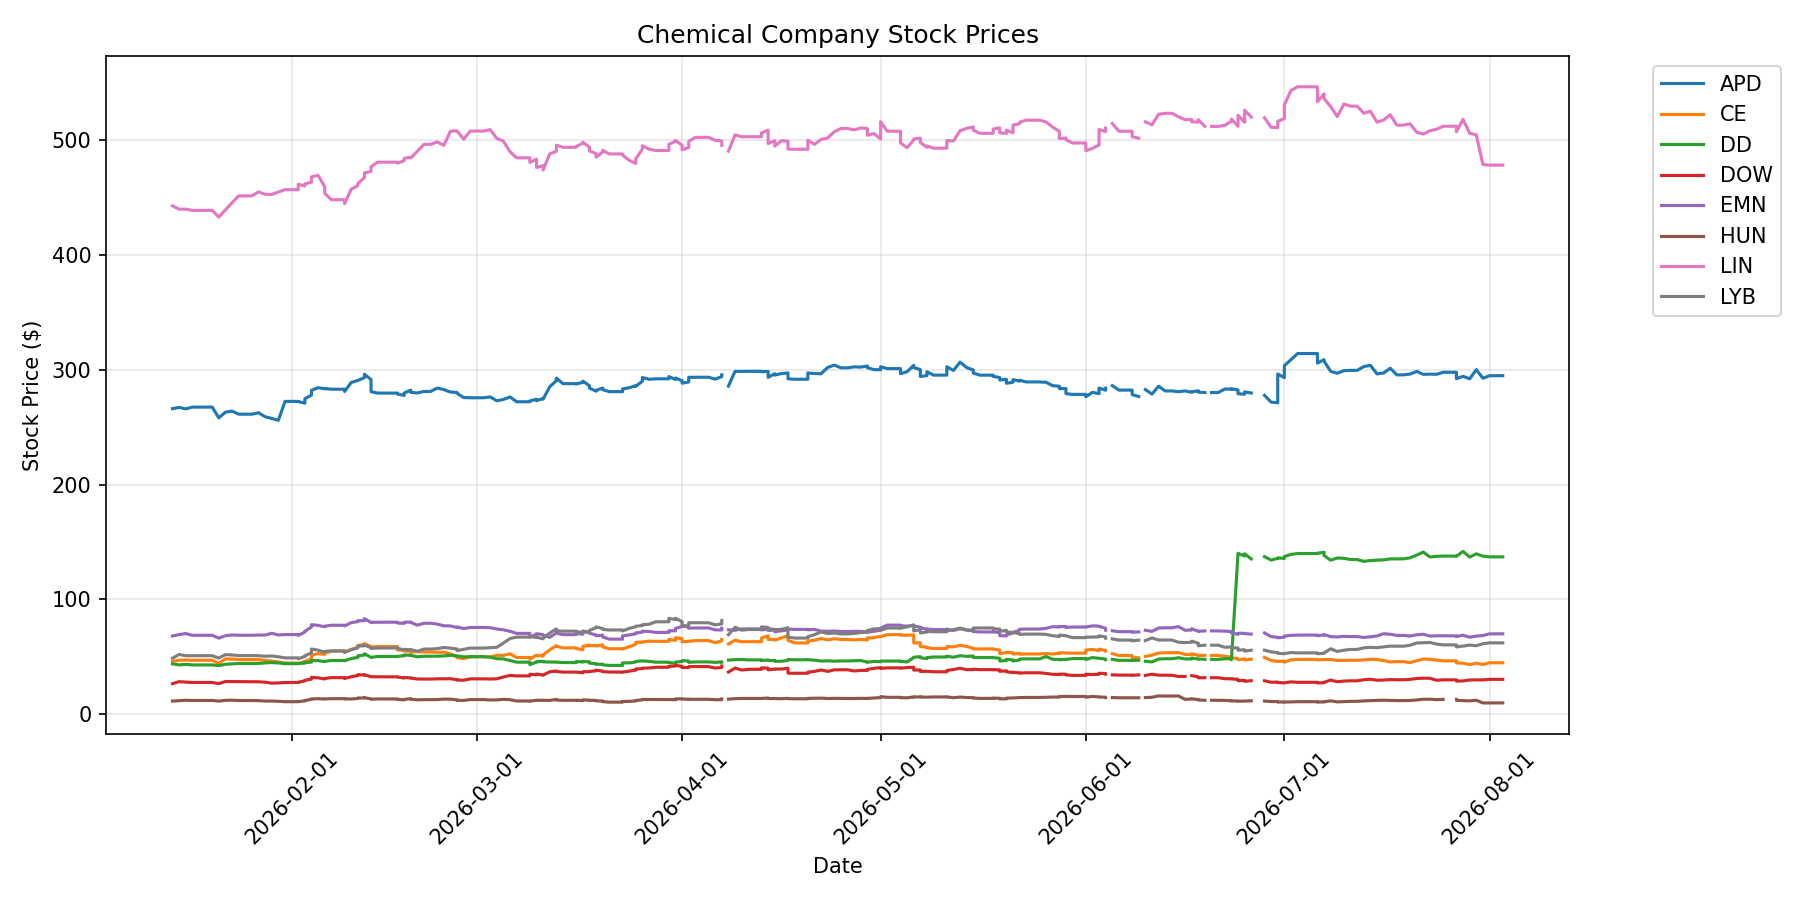
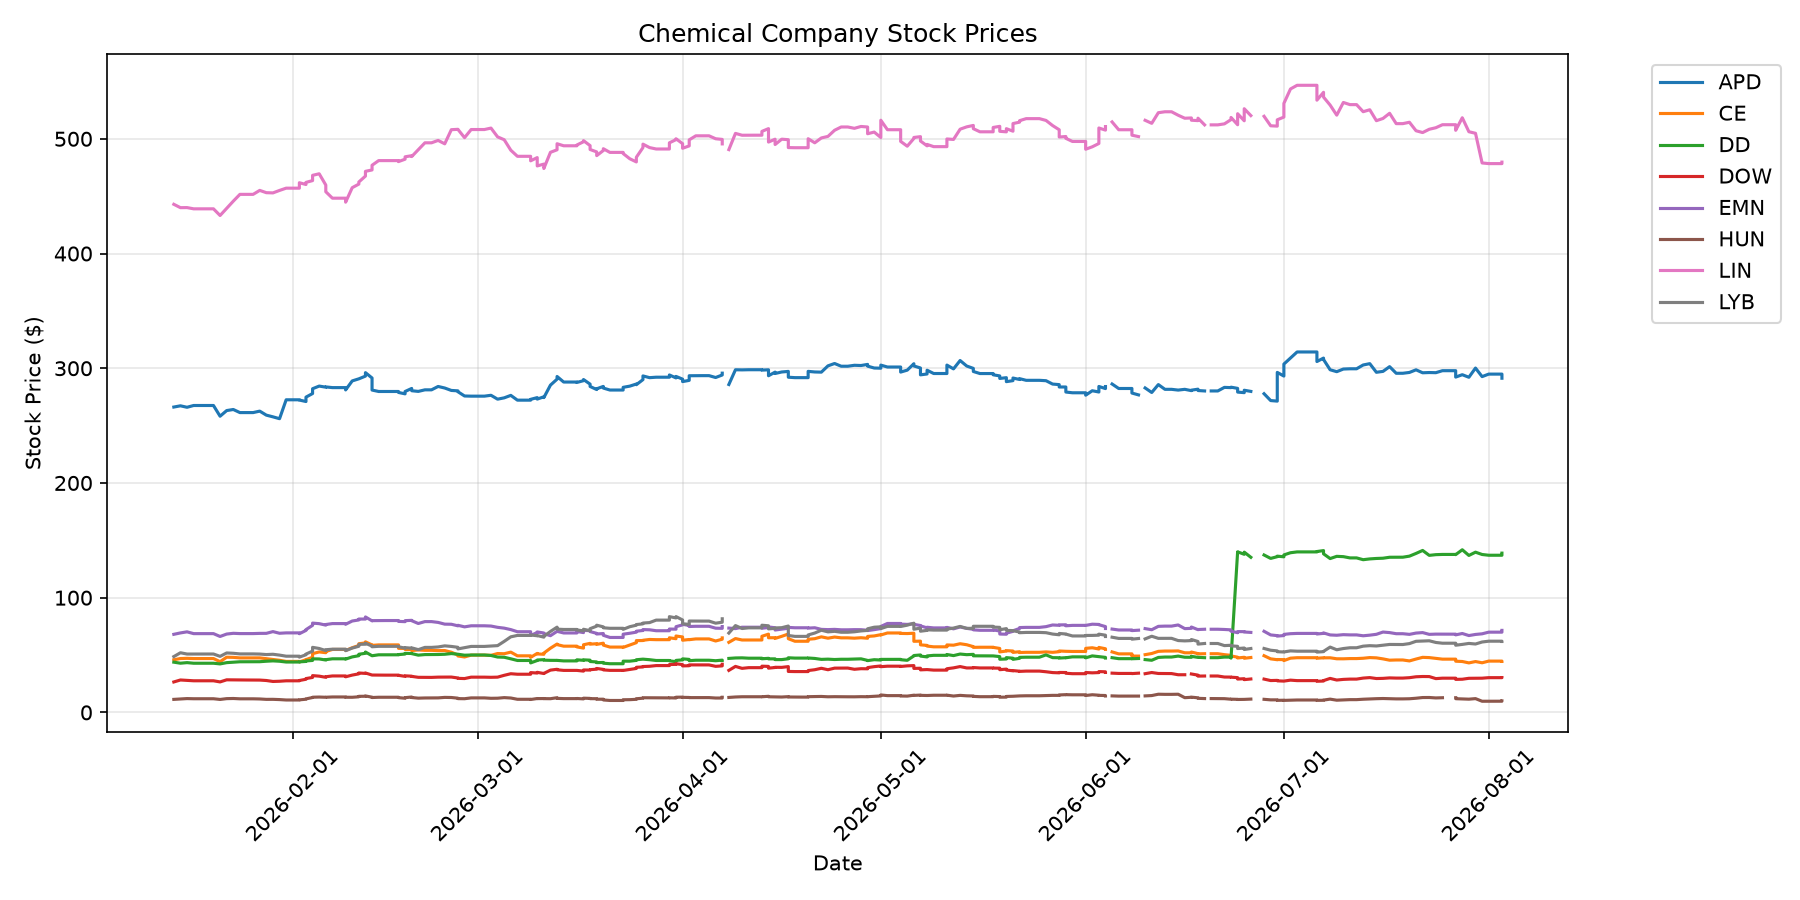
Daily price update: 2026-08-03

diff --git a/README.md b/README.md
@@ -8,22 +8,23 @@ Automated daily tracking of chemical commodity prices and chemical company stock
 
 | Commodity | Price | Change (24h) | Unit |
 |-----------|-------|--------------|------|
-| WTI Crude Oil | $79.43 | +0.00 (+0.00%) | $/barrel |
-| Natural Gas | $2.76 | +0.00 (+0.00%) | $/MMBtu |
-| Heating Oil | $4.00 | +0.00 (+0.00%) | $/gallon |
+| WTI Crude Oil | $79.51 | +0.00 (+0.00%) | $/barrel |
+| Brent Crude Oil | $83.75 | +0.00 (+0.00%) | $/barrel |
+| Natural Gas | $2.77 | +0.00 (+0.00%) | $/MMBtu |
+| Heating Oil | $3.92 | +0.00 (+0.00%) | $/gallon |
 
 ### Chemical Company Stocks
 
 | Company | Ticker | Price | Change (24h) |
 |---------|--------|-------|--------------|
-| Dow Inc. | DOW | $30.29 | +0.20 (+0.66%) |
-| LyondellBasell | LYB | $62.08 | +1.64 (+2.71%) |
-| DuPont | DD | $137.00 | -1.84 (-1.33%) |
-| Air Products | APD | $294.89 | -5.31 (-1.77%) |
-| Linde | LIN | $478.38 | -30.26 (-5.95%) |
-| Eastman Chemical | EMN | $69.95 | -0.12 (-0.17%) |
-| Celanese | CE | $44.72 | -0.09 (-0.20%) |
-| Huntsman | HUN | $9.76 | -2.31 (-19.14%) |
+| Dow Inc. | DOW | $30.38 | +0.09 (+0.30%) |
+| LyondellBasell | LYB | $61.83 | -0.25 (-0.40%) |
+| DuPont | DD | $138.83 | +1.83 (+1.34%) |
+| Air Products | APD | $291.30 | -3.59 (-1.22%) |
+| Linde | LIN | $479.67 | +1.29 (+0.27%) |
+| Eastman Chemical | EMN | $71.50 | +1.55 (+2.22%) |
+| Celanese | CE | $44.43 | -0.29 (-0.65%) |
+| Huntsman | HUN | $10.05 | +0.28 (+2.92%) |
 
 ## Data Sources
 

diff --git a/logs/update_log.md b/logs/update_log.md
@@ -318,3 +318,4 @@ Daily updates to the chemical engineering data repository.
 - **2026-08-01 14:51:18**: Updated 4 energy prices, 8 stocks, 0 FRED series
 - **2026-08-02 14:53:08**: Updated 4 energy prices, 8 stocks, 0 FRED series
 - **2026-08-03 01:11:24**: Updated 3 energy prices, 8 stocks, 0 FRED series
+- **2026-08-03 16:13:31**: Updated 4 energy prices, 8 stocks, 0 FRED series
